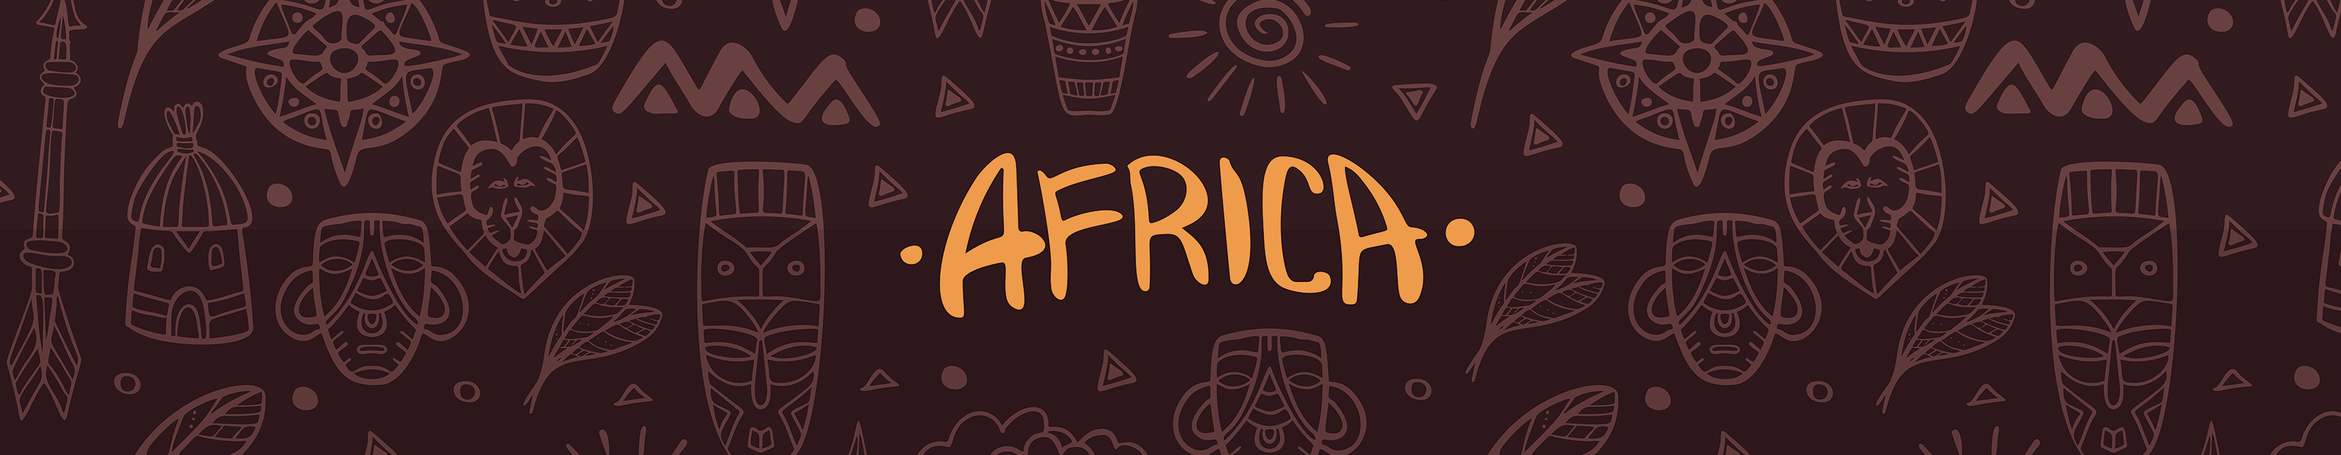
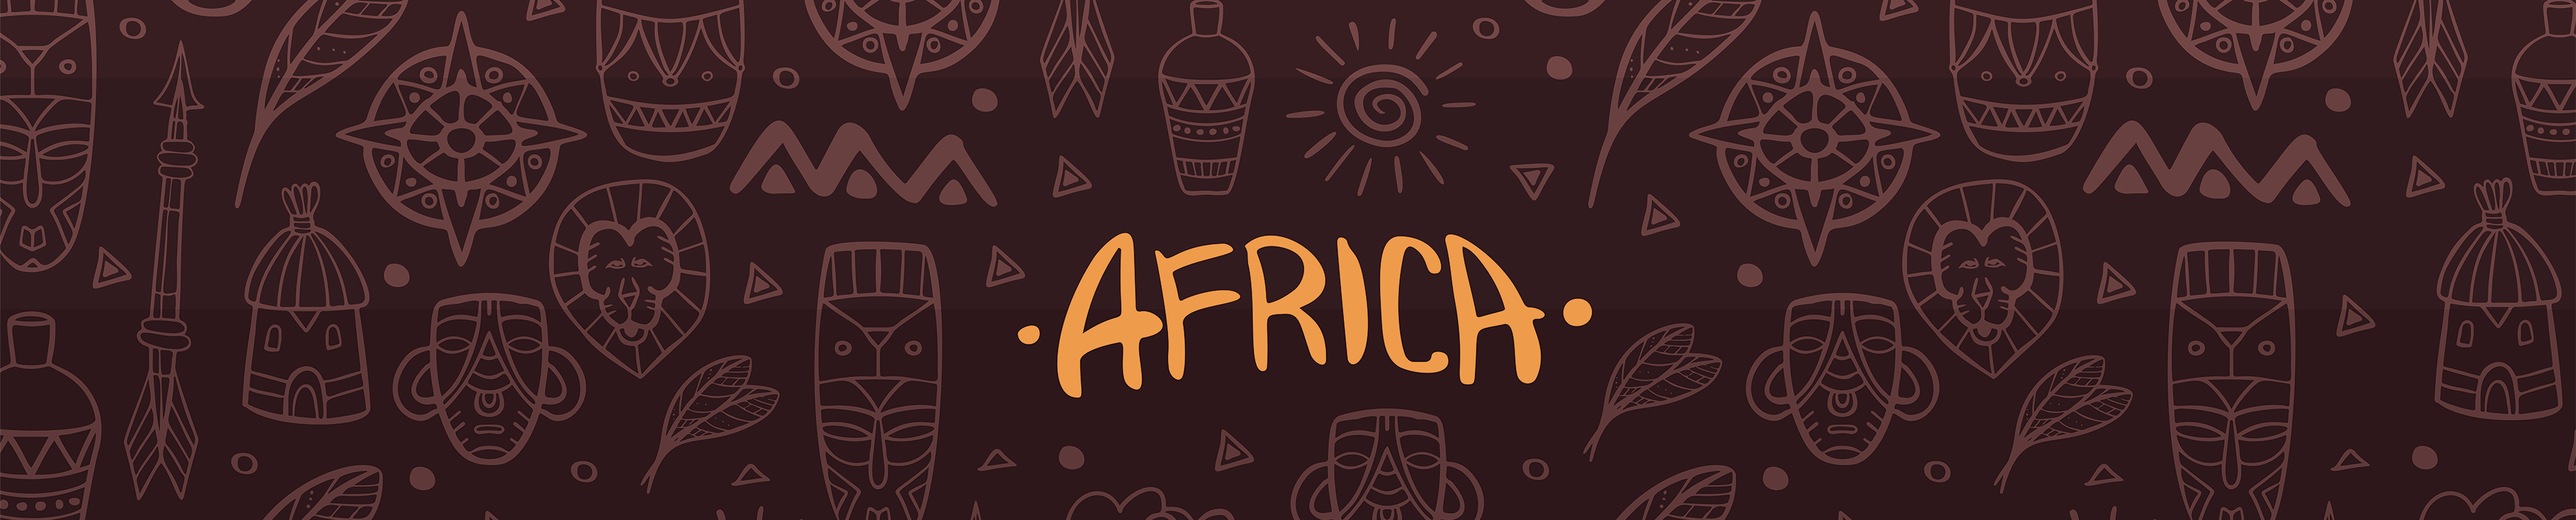
Resize header image, add footer content and style

diff --git a/index.html b/index.html
@@ -194,13 +194,71 @@
 	</section>
 	<footer class="container-fluid">
 		<div class="row">
-			<div class="col-lg-4">
-			</div>
-			<div class="col-lg-4">
-			</div>
-			<div class="col-lg-4">
-			</div>
-		</div>
+        <!-- First third sction is the About section -->
+        <div class="col-md-4">
+          <h5 class="footer-header">About</h5>
+          <p class="inline-block footer-text">
+            RMC Tours is a small company organising bike tours in the Catalonia
+            area of Spain and France. Our team is passionate about biking and
+            discovering all the historical, geographical and culinary treasures
+            in the area.
+          </p>
+        </div>
+        <!-- First third section finishes here -->
+        <!-- Second third section is the Download section -->
+        <div class="col-md-4">
+          <h5 class="footer-header">Download</h5>
+          <p class="inline-block footer-text">
+            Need more details of tour itineries? We can arrange and amend tours
+            on a bespoke basis. Please take a look at some examples in the
+            Download here.
+            <a
+              href="assets/itinery/itineryv3.pdf"
+              target="_blank"
+              class="itinery-pdf"
+              ><i class="fas fa-download" aria-hidden="true"></i>
+              <span class="sr-only">Download link.</span>
+            </a>
+          </p>
+        </div>
+        <!-- Second third sectin finishes here -->
+        <!-- Third third sction is the Social section and starts here -->
+        <div class="col-md-4">
+          <h5 class="footer-header">Social</h5>
+          <p class="inline-block footer-text">
+            We are active on social media and often post details of our tours
+            and travels on our bikes. Take a look and certainly give us a call
+            for an informal chat!<i class="fas fa-phone"></i> (44) 555 6789.
+          </p>
+          <ul class="social-networks">
+            <li>
+              <a href="https://www.facebook.com" target="_blank"
+                ><i class="fab fa-facebook" aria-hidden="true"></i
+                ><span class="sr-only">Facebook</span></a
+              >
+            </li>
+            <li>
+              <a href="https://www.twitter.com" target="_blank"
+                ><i class="fab fa-twitter-square" aria-hidden="true"></i
+                ><span class="sr-only">Twitter</span></a
+              >
+            </li>
+            <li>
+              <a href="https://www.youtube.com" target="_blank"
+                ><i class="fab fa-youtube" aria-hidden="true"></i
+                ><span class="sr-only">Youtube</span></a
+              >
+            </li>
+            <li>
+              <a href="https://www.instagram.com" target="_blank"
+                ><i class="fab fa-instagram" aria-hidden="true"></i
+                ><span class="sr-only">Instagram</span></a
+              >
+            </li>
+          </ul>
+        </div>
+        <!-- The Third thirds section finishes here -->
+      </div>
     </footer>
 	<script src="https://ajax.googleapis.com/ajax/libs/jquery/3.5.1/jquery.min.js"></script>
 	<script src="https://cdnjs.cloudflare.com/ajax/libs/popper.js/1.16.0/umd/popper.min.js"></script>

diff --git a/assets/css/style.css b/assets/css/style.css
@@ -16,7 +16,7 @@ body {
   background-position: center;
   background-repeat: no-repeat;
   background-size:cover;
-  max-height: 300px;
+  min-height: 500px;
   position: relative;
   margin: 0;
 
@@ -206,6 +206,18 @@ button[type="submit"] {
     background-color: #e84610;
 
 }
+
+.carousel-inner img {
+    width: 100%;
+    height: 100%;
+  }
+
+
+/*-----------------------carousel-------------------------------*/
+.carousel-box {
+    padding: 0;
+    box-shadow: 0 4px 8px 0 rgba(0, 0, 0, 0.2), 0 6px 20px 0 rgba(0, 0, 0, 0.19);
+}
 /*-----------------------footer-------------------------------*/
 
 footer {
@@ -214,15 +226,70 @@ footer {
     margin-top: 20px;
 }
 
+.footer-header {
+    font-family: "Roboto", sans-serif;
+    font-weight: 300;
+    font-size: 20px;
+    padding-top: 10px;
+    color: #fff;
 
-.carousel-inner img {
-    width: 100%;
-    height: 100%;
-  }
+}
 
-.carousel-box {
-    padding: 0;
-    box-shadow: 0 4px 8px 0 rgba(0, 0, 0, 0.2), 0 6px 20px 0 rgba(0, 0, 0, 0.19);
+.footer-text {
+    font-family: "Roboto", sans-serif;
+    font-weight: 200;
+    font-size: 15px;
+    color: #fff;
+
+}
+
+.footer-text i {
+    padding-left: 5px;
+
+}
+
+.itinery-pdf i {
+    font-size: 18px;
+    color: #fafafa;
+    text-align: center;
+    padding-left: 5px;
+     transition: all 0.35s ease-in-out;
+    -moz-transition: all 0.35s ease-in-out;
+    -webkit-transition: all 0.35s ease-in-out;
+    -o-transition: all 0.35s ease-in-out;
+
+}
+
+.itinery-pdf i:hover {
+    color:#b22222;
+
+}
+
+.social-networks {
+    text-align: center;
+
+}
+
+.social-networks li {
+    display: inline;
+
+}
+
+.social-networks i {
+    font-size: 110%;
+    padding: 0 10px;
+    color: #fff;
+    
+}
+
+.footer-text i:hover {
+    color:#b22222;
+
+}
+
+.social-networks i:hover {
+    color:#b22222;
+
 }
 
     /*-------------------------------Media Queries-----------------------------*/

diff --git a/README.md b/README.md
@@ -316,4 +316,5 @@ Click [Here](https://help.github.com/en/github/creating-cloning-and-archiving-re
 #### V9.0 Add population and gdp pie charts to country page
 #### V9.1 Add top five populaton data to pie chart country page
 #### V9.2 Add top five GDP data to pie chart country page
-#### Set min-height on info-box styling to always fit narrative
+#### V9.3 Set min-height on info-box styling to always fit narrative
+#### V9.4 Resize header image, add footer content and style
